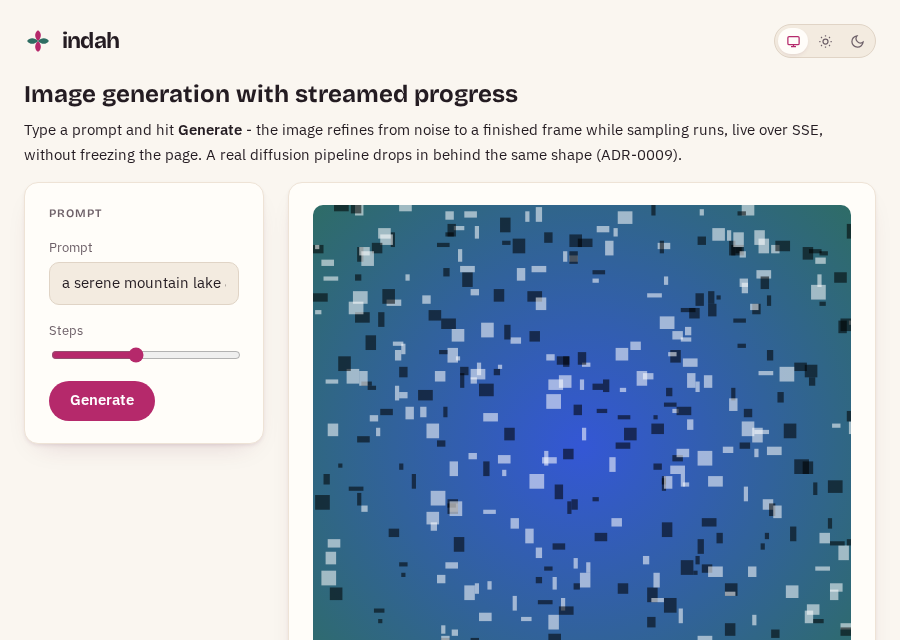
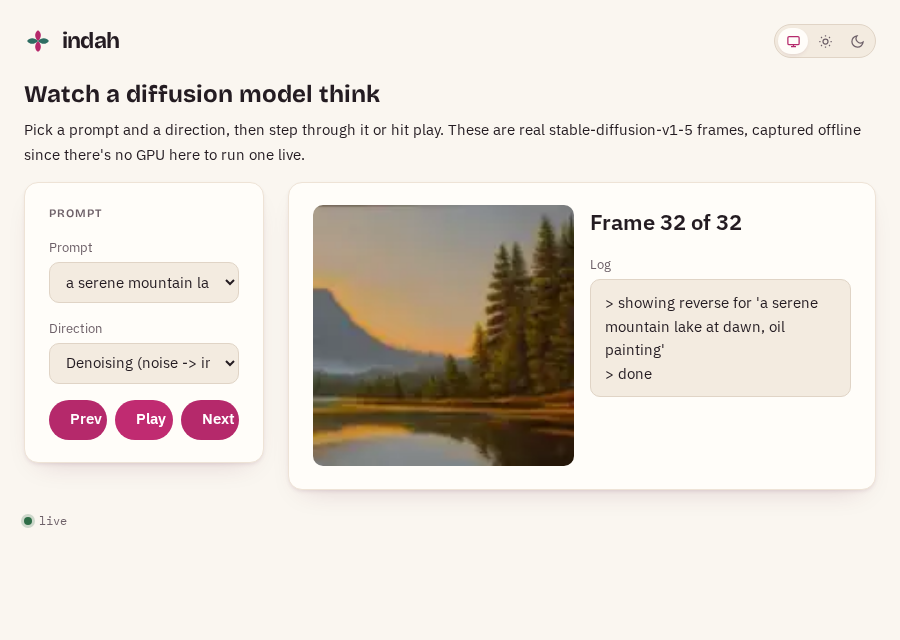
Diffusion demo: step controls, play/pause, and a smaller image (user feedback) (#88)
The image was stretched to the full workspace width, so a 144x144 captured
frame came out blurry and pixelated. Putting it in a Row next to a frame
counter and the log halves its display width, per feedback that this "would
look fine" at half size.

Replaces the one-shot Generate button with Prev/Next (jump one frame either
way) and a Play/Pause toggle (auto-advances at the same pace Generate used to,
and can be paused mid-run). Switching prompt or direction resets to frame 0
and stops any playback in progress, wired through indah.effect() since Select
only binds a value, it doesn't fire a callback.

Also updates the diffusion thumbnail (now shows the finished painting instead
of a noise frame) and regenerates the Colab notebook.

diff --git a/examples/diffusion.py b/examples/diffusion.py
@@ -1,22 +1,19 @@
-"""Image generation with streamed progress: watch a real diffusion model denoise, and
-watch the reverse (noising) process too.
+"""Watch a real diffusion model step through noise, frame by frame, forwards or back.
 
-The Gradio "diffusion progress" archetype, done on indah: pick a prompt, hit Generate,
-and the image refines from noise to a finished frame while a progress bar fills - all
-live over SSE, the UI never freezing. Unlike the other demos here, this one does not
-run a model live: diffusion needs a GPU indah's hosted Fly gallery does not have, so the
-frames are pre-recorded (captured once with real ``diffusers`` inference on a rented
-GPU) and replayed here over the exact same streamed-progress UI (ADR-0009) a live
-sampler would use -- swap ``_frames_for`` for a real
-``for image in pipe(prompt, callback=...)`` loop and nothing else about the app changes.
+Diffusion needs a GPU, and indah's hosted gallery doesn't have one, so nothing runs
+live here. The frames come from a real ``diffusers`` pipeline (stable-diffusion-v1-5),
+captured once on a rented GPU and replayed over the same streamed UI a live sampler
+would use. Swap ``_frames_for`` for a real ``for image in pipe(prompt, callback=...)``
+loop and the rest of the app doesn't change.
 
-Both directions of the real process are captured, not just the usual "denoise" demo:
-**reverse** (denoising: noise -> image) is the real ``diffusers`` sampler's own
-intermediate latents, VAE-decoded at each step; **forward** (noising: image -> noise) is
-the actual forward diffusion SDE -- the finished image's clean latent with
-``scheduler.add_noise()`` applied at increasing timesteps, the same math that trains a
-diffusion model, not a fake reverse-and-relabel of the sampler's frames. Two prompts are
-pre-baked (a couple is enough to show the process; the asset stays under 1.5 MB).
+Both directions are the genuine process, not a demo trick. Reverse (denoising, noise
+to image) is the sampler's own intermediate latents, decoded at every step. Forward
+(noising, image to noise) is the actual diffusion math run on the finished image's
+latent at increasing noise levels - the same thing a diffusion model trains on, not
+a relabeled copy of the reverse frames.
+
+Two prompts are pre-baked, since a free-text prompt needs a live model to answer.
+Step through frames with the arrow buttons, or hit play and let it run.
 
 Run it with:  python examples/diffusion.py   (prints a URL; embeds inline in a cell).
 """
@@ -199,31 +196,47 @@ def _prompt_label(slug: str) -> str:
 def build() -> indah.Session:
     prompt_choice = indah.Signal(PROMPTS[0][0])
     process = indah.Signal(PROCESSES[0][0])
-    busy = indah.Signal(False)
+    playing = indah.Signal(False)
+    frame_index = indah.Signal(0)
     image = indah.Signal(_frames_for(PROMPTS[0][0], PROCESSES[0][0])[0])
-    console = indah.StreamText(label="Sampler log")
+    console = indah.StreamText(label="Log")
 
-    async def generate() -> None:
-        if busy.value:
-            return
-        busy.set(True)
-        slug, process_name = prompt_choice.value, process.value
-        frames = _frames_for(slug, process_name)
-        n = len(frames)
+    def current_frames() -> list[str]:
+        return _frames_for(prompt_choice.value, process.value)
+
+    def show(index: int) -> None:
+        frame_index.set(index)
+        image.set(current_frames()[index])
+
+    # A prompt or direction change always jumps back to frame 0 and stops any playback
+    # in progress -- switching mid-play would otherwise carry on with the old sequence.
+    def on_selection_change() -> None:
+        playing.set(False)
         console.reset()
-        console.feed(
-            f"> replaying real stable-diffusion-v1-5 {process_name} for "
-            f"'{_prompt_label(slug)}' ({n} frames, captured offline on a rented GPU)\n"
-        )
+        console.feed(f"> showing {process.value} for '{_prompt_label(prompt_choice.value)}'\n")
+        show(0)
+
+    indah.effect(on_selection_change)
+
+    async def toggle_play() -> None:
+        if playing.value:
+            playing.set(False)
+            return
+        playing.set(True)
+        frames = current_frames()
         try:
-            for i, frame in enumerate(frames):
-                image.set(frame)
-                if i % max(1, n // 8) == 0 or i == n - 1:
-                    console.feed(f"> frame {i + 1}/{n}\n")
+            while playing.value and frame_index.value < len(frames) - 1:
+                show(frame_index.value + 1)
                 await asyncio.sleep(0.08)  # a live sampler step runs on the GPU here
-            console.feed("> done\n")
+            if frame_index.value == len(frames) - 1:
+                console.feed("> done\n")
         finally:
-            busy.set(False)
+            playing.set(False)
+
+    def step(delta: int) -> None:
+        playing.set(False)
+        frames = current_frames()
+        show(max(0, min(len(frames) - 1, frame_index.value + delta)))
 
     controls = indah.Card(
         title="Prompt",
@@ -234,24 +247,43 @@ def build() -> indah.Session:
                 label="Prompt",
             ),
             indah.Select(process, options=PROCESSES, label="Direction"),
-            indah.Button("Generate", on_click=generate),
-            indah.Spinner(active=busy, label="replaying..."),
+            indah.Row(
+                children=[
+                    indah.Button("Prev", on_click=lambda: step(-1)),
+                    indah.Button(
+                        lambda: "Pause" if playing.value else "Play", on_click=toggle_play
+                    ),
+                    indah.Button("Next", on_click=lambda: step(1)),
+                ],
+                gap="0.5rem",
+            ),
         ],
     )
 
-    workspace = indah.Column(
+    workspace = indah.Card(
         children=[
-            indah.Card(children=[indah.Image(image, alt="diffusion frame")]),
-            indah.Expander(label="Sampler log", children=[console]),
+            indah.Row(
+                children=[
+                    indah.Image(image, alt="diffusion frame"),
+                    indah.Column(
+                        children=[
+                            indah.Text(
+                                lambda: f"Frame {frame_index.value + 1} of {len(current_frames())}"
+                            ),
+                            console,
+                        ]
+                    ),
+                ],
+                gap="1rem",
+            )
         ]
     )
 
     intro = indah.Text(
-        "# Image generation with streamed progress\n\n"
-        "Pick a prompt and a direction, then hit **Generate** - real "
-        "stable-diffusion-v1-5 frames (captured offline; no GPU here) replay live over "
-        "SSE, without freezing the page. A live pipeline drops in behind the same shape "
-        "(ADR-0009).",
+        "# Watch a diffusion model think\n\n"
+        "Pick a prompt and a direction, then step through it or hit play. These are "
+        "real stable-diffusion-v1-5 frames, captured offline since there's no GPU "
+        "here to run one live.",
         markdown=True,
     )
     return indah.Session(

diff --git a/tests/integration/test_diffusion_example.py b/tests/integration/test_diffusion_example.py
@@ -1,7 +1,10 @@
 """The diffusion example (examples/diffusion.py) stays runnable.
 
-Smoke-checks that Generate replays one real (pre-recorded) frame per step, with
-progress, over the session dispatch + hub path, for each pre-baked prompt/direction.
+Smoke-checks the pre-recorded frames for every prompt/direction, and that Play,
+Prev, and Next all move through the real frame sequence over the session dispatch
+path. Play is an async handler, so its incremental frames arrive over the bound
+hub as it runs; Prev/Next/the prompt Select are synchronous, so their one-shot
+result comes back directly in the dispatch's own ``changes``.
 """
 
 import importlib.util
@@ -21,6 +24,21 @@ def _load_example():
     return module
 
 
+def _label(button) -> str:
+    return button.reactive_props()["label"]()
+
+
+def _buttons(session) -> dict[str, object]:
+    buttons = [c for c in session._by_id.values() if c.type == "button"]
+    return {_label(b): b for b in buttons}
+
+
+def _image_src(result, image_id) -> str:
+    return next(
+        c["props"]["src"] for c in result.changes if c["target"] == image_id and "src" in c["props"]
+    )
+
+
 @pytest.mark.integration
 def test_frames_are_real_data_and_cover_every_prompt_and_direction():
     example = _load_example()
@@ -35,14 +53,14 @@ def test_frames_are_real_data_and_cover_every_prompt_and_direction():
 
 
 @pytest.mark.integration
-async def test_generate_streams_a_frame_per_step():
+async def test_play_streams_a_frame_per_step_over_the_hub():
     example = _load_example()
     session = example.build()
     hub = Hub()
     session.bind_hub(hub)
 
-    button = next(c for c in session._by_id.values() if c.type == "button")
-    result = session.dispatch(button.id, "click", {})
+    play_button = _buttons(session)["Play"]
+    result = session.dispatch(play_button.id, "click", {})
     assert result is not None and result.coro is not None  # async handler
     await result.coro
 
@@ -64,3 +82,39 @@ async def test_generate_streams_a_frame_per_step():
         previous = f
     assert frames == deduped
     assert frames[-1] == expected[-1]  # settles on the real, final frame
+
+
+@pytest.mark.integration
+def test_next_and_prev_step_one_frame_at_a_time():
+    example = _load_example()
+    session = example.build()
+    buttons = _buttons(session)
+    image = next(c for c in session._by_id.values() if c.type == "image")
+    expected = example._frames_for(example.PROMPTS[0][0], example.PROCESSES[0][0])
+
+    r1 = session.dispatch(buttons["Next"].id, "click", {})
+    r2 = session.dispatch(buttons["Next"].id, "click", {})
+    r3 = session.dispatch(buttons["Prev"].id, "click", {})
+
+    assert [_image_src(r, image.id) for r in (r1, r2, r3)] == [
+        expected[1],
+        expected[2],
+        expected[1],
+    ]
+
+
+@pytest.mark.integration
+def test_switching_prompt_resets_to_frame_zero():
+    example = _load_example()
+    session = example.build()
+    image = next(c for c in session._by_id.values() if c.type == "image")
+    select = next(
+        c
+        for c in session._by_id.values()
+        if c.type == "select" and c.static_props()["label"] == "Prompt"
+    )
+
+    result = session.dispatch(select.id, "change", {"value": example.PROMPTS[1][0]})
+
+    expected0 = example._frames_for(example.PROMPTS[1][0], example.PROCESSES[0][0])[0]
+    assert _image_src(result, image.id) == expected0

diff --git a/scripts/capture_thumbnails.py b/scripts/capture_thumbnails.py
@@ -79,8 +79,8 @@ def _nudge(page, kind: str | None) -> None:
             page.get_by_role("button", name="Start training").click(timeout=2000)
             page.wait_for_timeout(2000)  # let a couple of epochs stream in
         elif kind == "generate":
-            page.get_by_role("button").first.click(timeout=2000)
-            page.wait_for_timeout(1800)
+            page.get_by_role("button", name="Play").click(timeout=2000)
+            page.wait_for_timeout(2800)  # the ~32-frame sequence finishing on a real image
         elif kind == "chat":
             box = page.get_by_placeholder("Type a message, then press Enter or click Send")
             box.fill("What can indah do?", timeout=2000)
